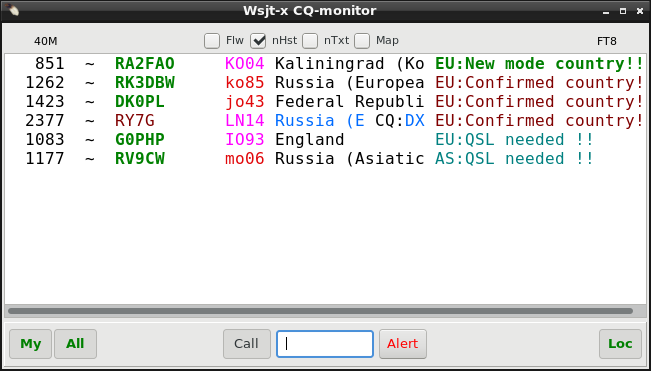
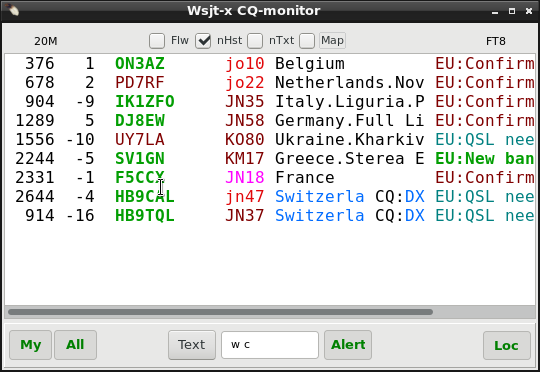
Bugfix:Grid map counters. Cq-Monitor/Map Snr dB values added

diff --git a/help/wsjt.html b/help/wsjt.html
@@ -70,8 +70,8 @@ Only remote logging and call qrz/hamqth seek are used then.
 <img src="img/wsjt23.png" name="22" width="353" height="282">
 </img></p>
 Top line will show band and mode that is in use, Checking <b>"no history”</b> will clean monitor on every decoded RX-period.
-</br>Timestamp at the start of line also changes to DeltaFrequency 
-(waterfall position of station) then, as no history is collected and so no time stamp is needed.
+</br>Timestamp and mode letter at the start of line are also replaced by DeltaFrequency (waterfall position of station) and Snr dB value 
+ then, as no history is collected and so time stamp has no meaning.
 </br>If there are no CQ lines during period then old monitor lines will turn to silver gray indicating that right period of possible answer is passed. This happens ONLY if <b>"no history”</b> is checked. If not, colors stay as they are.
 </br>CQ-lines turning to silver gray does not disable double click answering property. It is just informative color change. 
 </br>If not checked form will show also older CQs (scrolling) to see what you missed while having a coffee break :). Only 20 lines, how ever.
@@ -219,13 +219,15 @@ cd ~/.config/cqrlog/ctyfiles
 How ever if alerts were <strong>on</strong> they stay <strong>on</strong>. Exception is that <strong>Text alert</strong> does not find continents and comments like "New country","QSL needed" etc.
 </br>Map-mode shows all traffic on band. Colors of callsigns and locators are same than in CQ-monitor. If call is not in parentheses it is a CQ-call.
  Calls in parentheses have qso if there is no locator shown. If locator is shown they are answering to someones CQ.
+</br>If station is calling directed CQ that is <strong>not directed to you</strong> (same as in CQ-monitor) the message is shown at the and of line. As wsjt-x map does not have line wrapping, you can easily hide it partially, or full, by setting the width of Map window.
 </br> 
 </br>As also all other lines than CQs are compared against your log entries this mode will eat more of cpu cycles than CQ-monitor.
 </br>Map-mode does not save history, it clears itself always at start of new decoding period if there is something new to show. Otherwise lines are turned gray as in CQ-monitor.
 </br></br>You can initiate qso same way as in CQ-monitor by double click on line  <strong>without </strong> parentheses.
  Double click on line  <strong>with </strong> parentheses loads call to Std messages of Wsjt-x and sets frequency, but  <strong>does not initiate TX</strong>.
 </br>This is a new property of Wsjt-x 1.9.0-rc3 and up. With previous versions this does not make any action.
-</p><p> <strong>ColorBackCQs </strong> selection work so that all CQs are printed (colored) at Wsjt-x Band Activity window and rest of the traffic appear to Wsjt-x band map.
+</p><p><strong>dB</strong> selection shows station snr report, as it shows up in Band Activity of wsjt-x.
+</br><strong>ColorBackCQs </strong> selection work so that all CQs are printed (colored) back to Wsjt-x Band Activity window and rest of the traffic will appear to Wsjt-x band map.
 </p>
 <p><img src="img/wsjt31.png" name="31" width="453" height="383">
 </img><img src="img/wsjt32.png" name="32" width="253" height="283">
